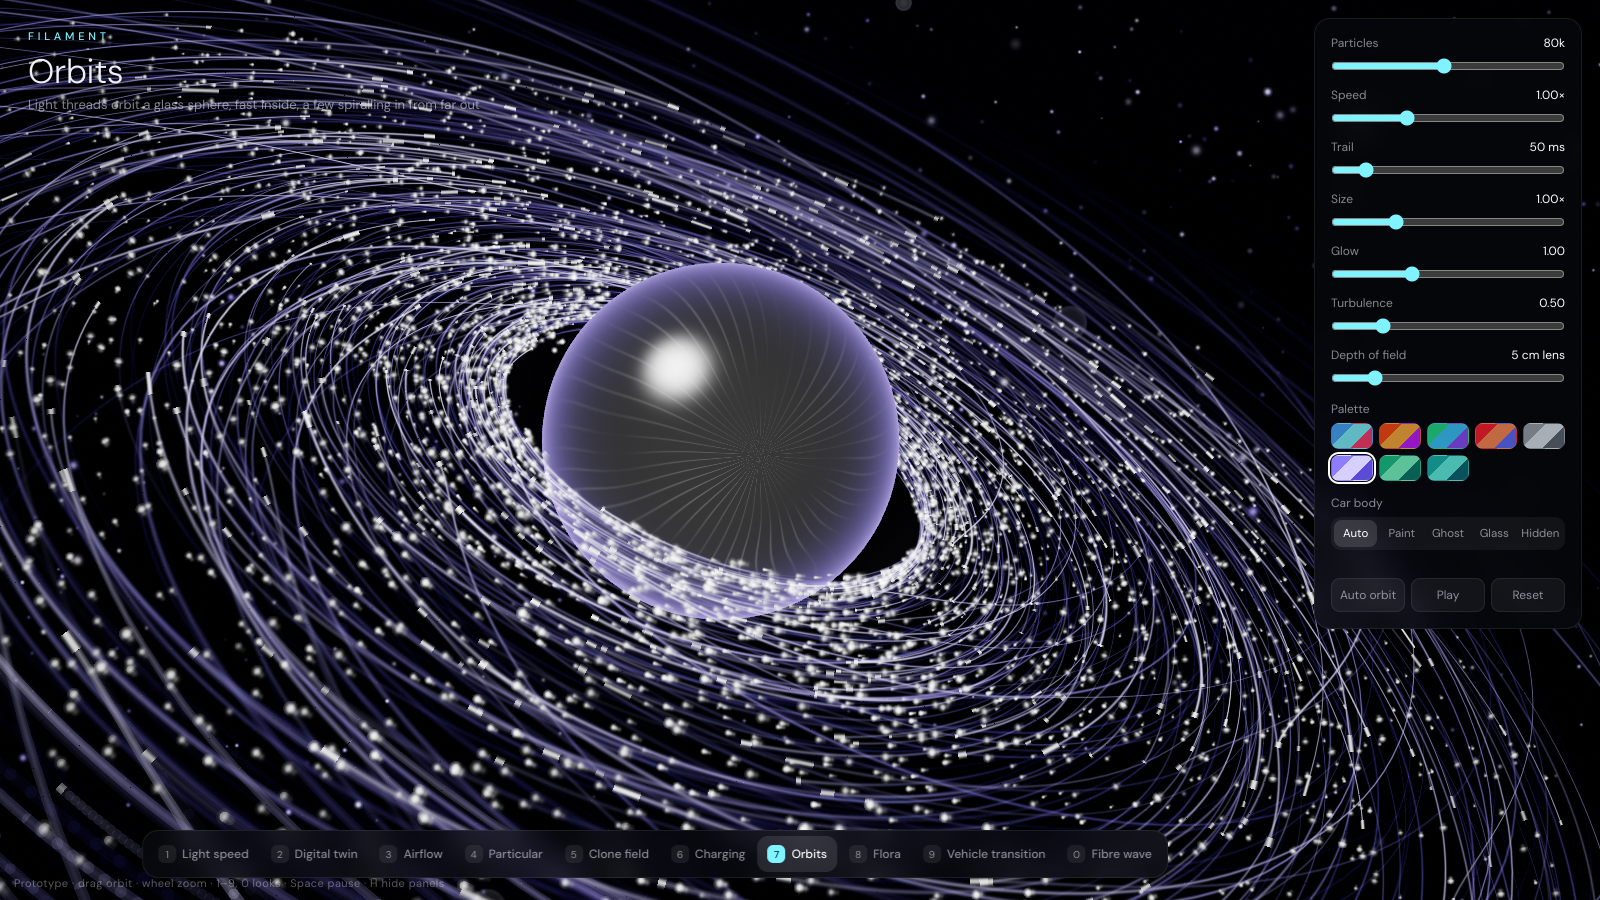
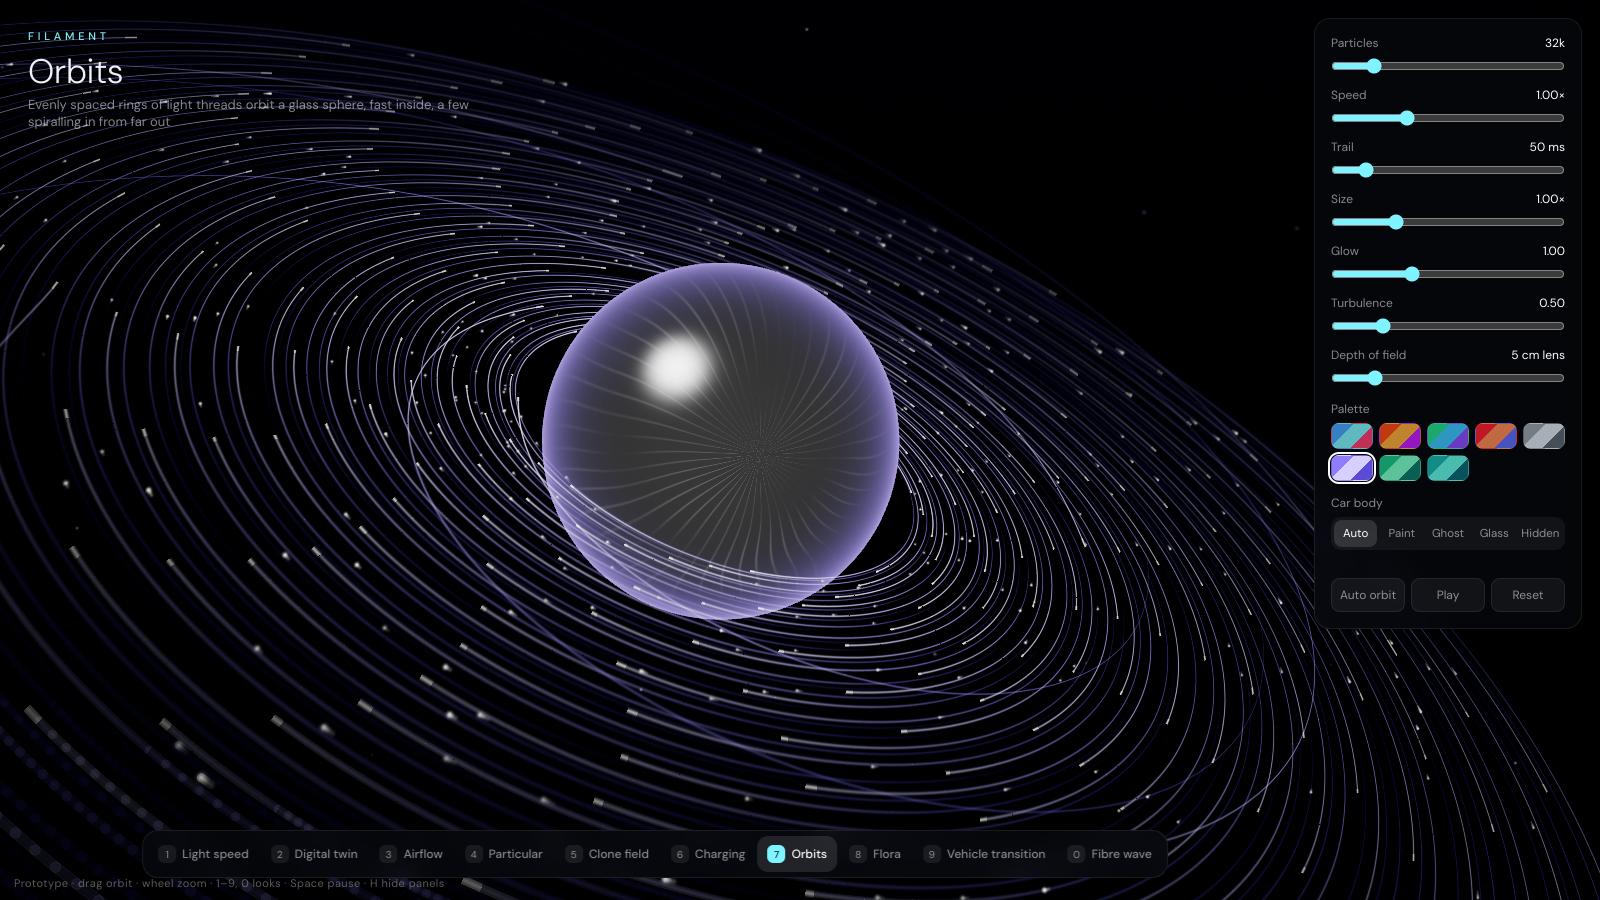
Filament: Orbits rings evenly spaced in one plane (Follow-up 26)

diff --git a/Experimental/CabinHmi/Filament/FilamentFibres.js b/Experimental/CabinHmi/Filament/FilamentFibres.js
@@ -5,58 +5,60 @@
 //    u + 1/S. The same per-instance trick turns some threads into sparkles riding the same curves.
 //    These Track functions run inside FilamentLooks.Prelude (Hash, Flow, Spin, Sphere, palette uniforms).
 
-// 7 · Orbits: rings of light threads around a glass sphere, Kepler-fast inside, a few spiralling in from far out.
+// 7 · Orbits: concentric rings of light threads in one plane around a glass sphere, evenly spaced and slowly widening
+//     outward, Kepler-fast inside. Every 40th thread spirals in from far out in the same plane; dots ride the rings.
 export const Orbits = /* glsl */ `
 const vec3 OrbitCentre = vec3(0.0, 1.6, 0.0);
 const float OrbitSegments = 96.0;
-vec3 RingTilt(vec3 P, float Fibre)
+vec3 RingTilt(vec3 P)
 {
-    float Tilt = 0.36 + (Hash(Fibre * 4.7) - 0.5) * 0.1;
+    const float Tilt = 0.36, Roll = -0.32;                                       // one shared plane: the rings never cross
     P = vec3(P.x, P.y * cos(Tilt) - P.z * sin(Tilt), P.y * sin(Tilt) + P.z * cos(Tilt));
-    float Roll = -0.32 + (Hash(Fibre * 6.1) - 0.5) * 0.12;
     return OrbitCentre + vec3(P.x * cos(Roll) - P.y * sin(Roll), P.x * sin(Roll) + P.y * cos(Roll), P.z);
 }
-vec3 OrbitPoint(float Fibre, float U, float Time)
+float RingRadius(float Ring, float Rings) { return 1.55 + 5.6 * pow((Ring + 0.5) / Rings, 1.25); }
+vec3 OrbitPoint(float Ring, float Rings, float U, float Time)
 {
-    float Radius = 1.65 + pow(Hash(Fibre * 7.91), 1.8) * 5.2;
-    float Spiral = step(Hash(Fibre * 3.3), 0.16);
-    float Reach = Radius * (1.0 + Spiral * pow(1.0 - U, 1.5) * 2.2);
-    float Span = mix(0.6, 2.4, Hash(Fibre * 5.1)) * (1.0 + Spiral * 1.5);
-    float Angle = Hash(Fibre * 2.9) * Tau + Time * uSpeed * 0.55 * pow(1.65 / Radius, 1.5) + (U - 1.0) * Span;
-    float Lift = (Hash(Fibre * 8.3) - 0.5) * 0.05 * Radius;
-    return RingTilt(vec3(cos(Angle) * Reach, Lift, sin(Angle) * Reach), Fibre);
+    float Radius = RingRadius(Ring, Rings);
+    float Spiral = step(mod(Ring, 40.0), 0.5);
+    float Reach = Radius * (1.0 + Spiral * pow(1.0 - U, 1.5) * 1.6);
+    float Span = (1.5 + 0.5 * sin(Ring * 0.37)) * (1.0 + Spiral * 1.2);                // arc length drifts smoothly ring to ring
+    float Angle = Ring * 2.39996 + Time * uSpeed * 0.55 * pow(1.65 / Radius, 1.5) + (U - 1.0) * Span;   // heads spread by the golden angle
+    return RingTilt(vec3(cos(Angle) * Reach, 0.0, sin(Angle) * Reach));
 }
 void Track(out vec3 Head, out vec3 Tail, out vec3 Tint, out float Width, out float Glow)
 {
     float Index = float(gl_InstanceID);
     float Fibre = floor(Index / OrbitSegments), Segment = mod(Index, OrbitSegments);
-    if (Hash(Fibre * 9.7) < 0.08)                                                 // sparkle slot: dots on their own orbits, or loose dust
+    float Rings = max(1.0, floor(uCount / OrbitSegments));
+    if (Hash(Fibre * 9.7) < 0.012)                                                // sparkle slot: dots riding the rings, a little loose dust
     {
-        if (Hash(Index * 0.311) < 0.2)
+        if (Hash(Index * 0.311) < 0.15)
         {
             vec3 Box = vec3(Hash(Index * 0.71), Hash(Index * 0.93), Hash(Index * 1.37)) - 0.5;
             Head = OrbitCentre + Box * vec3(22.0, 9.0, 18.0) + vec3(0.0, sin(uClock * 0.2 + Index) * 0.2, 0.0);
             Tail = Head;
-            Tint = mix(uTone1, uTone2, Hash(Index * 2.1)); Width = mix(0.01, 0.03, Hash(Index * 3.7)) * uSize;
-            Glow = mix(0.3, 2.0, pow(Hash(Index * 4.3), 4.0)) * (0.6 + 0.4 * sin(uClock * 2.0 + Index * 0.37));
+            Tint = mix(uTone1, uTone2, 0.5); Width = 0.014 * uSize;
+            Glow = mix(0.3, 1.4, pow(Hash(Index * 4.3), 4.0)) * (0.6 + 0.4 * sin(uClock * 2.0 + Index * 0.37));
             return;
         }
-        Head = OrbitPoint(Index + 0.5, 1.0, uClock);
-        Tail = OrbitPoint(Index + 0.5, 1.0, uClock - max(uTail, 0.02));
-        Tint = uTone2; Width = mix(0.008, 0.024, Hash(Index * 1.9)) * uSize;
-        Glow = mix(0.8, 3.5, pow(Hash(Index * 5.3), 4.0));
+        float Ring = floor(Hash(Index * 0.53) * Rings), Phase = Hash(Index * 0.77) * Tau;
+        Head = OrbitPoint(Ring, Rings, 1.0, uClock + Phase / (0.55 * uSpeed * pow(1.65 / RingRadius(Ring, Rings), 1.5)));
+        Tail = OrbitPoint(Ring, Rings, 1.0 - 0.006, uClock + Phase / (0.55 * uSpeed * pow(1.65 / RingRadius(Ring, Rings), 1.5)));
+        Tint = uTone2; Width = 0.01 * uSize;
+        Glow = mix(0.6, 2.2, pow(Hash(Index * 5.3), 4.0));
         return;
     }
     float From = Segment / OrbitSegments, To = (Segment + 1.0) / OrbitSegments;
-    Head = OrbitPoint(Fibre, To, uClock);
-    Tail = OrbitPoint(Fibre, From, uClock);
+    Head = OrbitPoint(Fibre, Rings, To, uClock);
+    Tail = OrbitPoint(Fibre, Rings, From, uClock);
     Ramp = 0.0;
-    float Pick = Hash(Fibre * 1.37);
-    Tint = mix(uTone0, uTone1, Pick);
+    float Inner = 1.0 - (Fibre + 0.5) / Rings;                                    // brighter near the sphere, fading outward
+    Tint = mix(uTone0, uTone1, Inner);
     Tint = mix(Tint, uTone2, To * To * 0.7);
-    Width = mix(0.004, 0.011, Hash(Fibre * 2.3)) * uSize;
-    Glow = mix(0.15, 1.1, pow(Pick, 2.0)) * pow(To, 1.2) * smoothstep(0.0, 0.08, From);
-    if (Segment == OrbitSegments - 1.0) { Width *= 1.8; Glow = Glow * 2.0 + 0.4; Tint = uTone2; }
+    Width = 0.0055 * uSize;
+    Glow = (0.3 + 0.9 * Inner * Inner) * pow(To, 1.2) * smoothstep(0.0, 0.08, From);
+    if (Segment == OrbitSegments - 1.0) { Width *= 1.3; Glow = Glow * 1.4 + 0.08; Tint = uTone2; }
 }`;
 
 // 8 · Flora: three particle flowers (glowing petal edges, breathing open, a few motes drifting off), big leaves in the

diff --git a/Experimental/CabinHmi/Filament/FilamentLooks.js b/Experimental/CabinHmi/Filament/FilamentLooks.js
@@ -379,9 +379,9 @@ export const Looks = [
       Variant: { Label: 'Clones', Options: ['Bars', 'Dots'] } },
     { Key: 'Charge', Name: 'Charging', Tagline: 'Energy runs down the cable, into the port and fills the battery cell by cell', Track: Charge, Car: 'Glass',
       View: { Yaw: 236, Pitch: 22, Distance: 9.5, Target: [-0.8, 0.5, -0.4] }, Defaults: { Speed: 1, Tail: 0.08, Size: 1, Turbulence: 0.5, Count: 30000, Palette: 'Aurora' } },
-    { Key: 'Orbits', Name: 'Orbits', Tagline: 'Light threads orbit a glass sphere, fast inside, a few spiralling in from far out', Track: Orbits, Car: 'Hidden', Sphere: true,
+    { Key: 'Orbits', Name: 'Orbits', Tagline: 'Evenly spaced rings of light threads orbit a glass sphere, fast inside, a few spiralling in from far out', Track: Orbits, Car: 'Hidden', Sphere: true,
       Backdrop: ['#0b0920', '#010104'], View: { Yaw: 104, Pitch: 13, Distance: 10.5, Target: [0.6, 1.5, 0] },
-      Defaults: { Speed: 1, Tail: 0.05, Size: 1, Turbulence: 0.5, Count: 80000, Palette: 'Lilac', Aperture: 0.05 } },
+      Defaults: { Speed: 1, Tail: 0.05, Size: 1, Turbulence: 0.5, Count: 32000, Palette: 'Lilac', Aperture: 0.05 } },
     { Key: 'Flora', Name: 'Flora', Tagline: 'Flowers, leaves and fern fans made of glittering particles, with bokeh', Track: Flora, Car: 'Hidden',
       Backdrop: ['#021209', '#000201'], View: { Yaw: 90, Pitch: 7, Distance: 8, Target: [0, 1.1, 0] },
       Defaults: { Speed: 1, Tail: 0.05, Size: 1, Turbulence: 0.6, Count: 140000, Palette: 'Jade', Aperture: 0.12 } },

diff --git a/Experimental/CabinHmi/README.md b/Experimental/CabinHmi/README.md
@@ -129,7 +129,7 @@ The ControlVehicle stands on a dark stage with ten looks (keys 1–9 and 0). Loo
 | Particular | Trapcode Particular-style: two emitters orbit the car. Particles age through a colour ramp, shrink over life and drift in a turbulence field. |
 | Clone field | MoGraph cloner: a grid of clones around the car, driven by a sphere effector, a shockwave ring and a noise effector. Bars (scale) or dots (move). |
 | Charging | Energy spirals down the cable, into the port and along the floor, then fills a 40-cell battery cell by cell (readout: %, kW, km). |
-| Orbits | Light threads orbit a glass sphere (fresnel rim, highlight, faint feathers inside). Inner rings run faster (Kepler), a few threads spiral in from far out, and sparkles and dust are scattered around. |
+| Orbits | Light threads orbit a glass sphere (fresnel rim, highlight, faint feathers inside). The rings share one plane and are evenly spaced, widening slightly outward, so they never cross. Inner rings run faster (Kepler) and glow brighter; every 40th thread spirals in from far out; a few dots ride the rings. |
 | Flora | Three flowers made of glittering particles: the petal edges glow, the petals slowly open and close, and motes drift off. Big leaves in front, fern fans behind and floating dust; depth of field turns the near and far parts into bokeh. |
 | Vehicle transition | A jagged electric edge sweeps the car nose to tail, three times in a 17.5 s loop: the dotted dust twin becomes the painted car, the paint changes from graphite to lime, then the car streams away as particles. The real car body is cut and recoloured at the same edge, which glows on the paint. Everything runs on evenly spaced straight lanes: prismatic lines behind the edge, particles shot straight out ahead of it, thin electric wisps. Turbulence is unused here. |
 | Fibre wave | A twisting sheet of optical fibres, narrow at one end and fanned out at the other. Light pulses run along it, with a bright, sparkling leading edge on a teal backdrop. |

diff --git a/Documentation/Tracker.md b/Documentation/Tracker.md
@@ -1275,5 +1275,6 @@ in `Exhibits/LightCompute/Results/FogFacetRegression.txt`; this was a fixture-se
   Follow-up 25: Display reveal replaced by Vehicle transition (`Transition`, `SweepJag`): an electric edge sweeps the real car (dust → paint,
   graphite → lime, paint → particles), car shader cut and recoloured at the edge; straight evenly spaced lanes. Flora and Fibre wave made
   cleaner (even vein, rib and fibre spacing). 16 captures, 0 console errors.
+  Follow-up 26: Orbits rings evenly spaced in one shared plane (golden-angle heads, radius-graded glow, fewer sparkles).
   Follow-up 22: Agera RS (`AgeraRs`, cross-plane 90° crank), rubber tyre squeal per surface (`Singer`, `Concrete` surface, `Tyres-Drift` scene), ricochet warble, subsonic whizz flown past the ear.
   Live AudioWorklet bench with car switch + offline MP3 reel (101 files, 26 MB) with spectrogram plates (`Exhibits/CabinHmi/Audio/`). Names unapproved.
